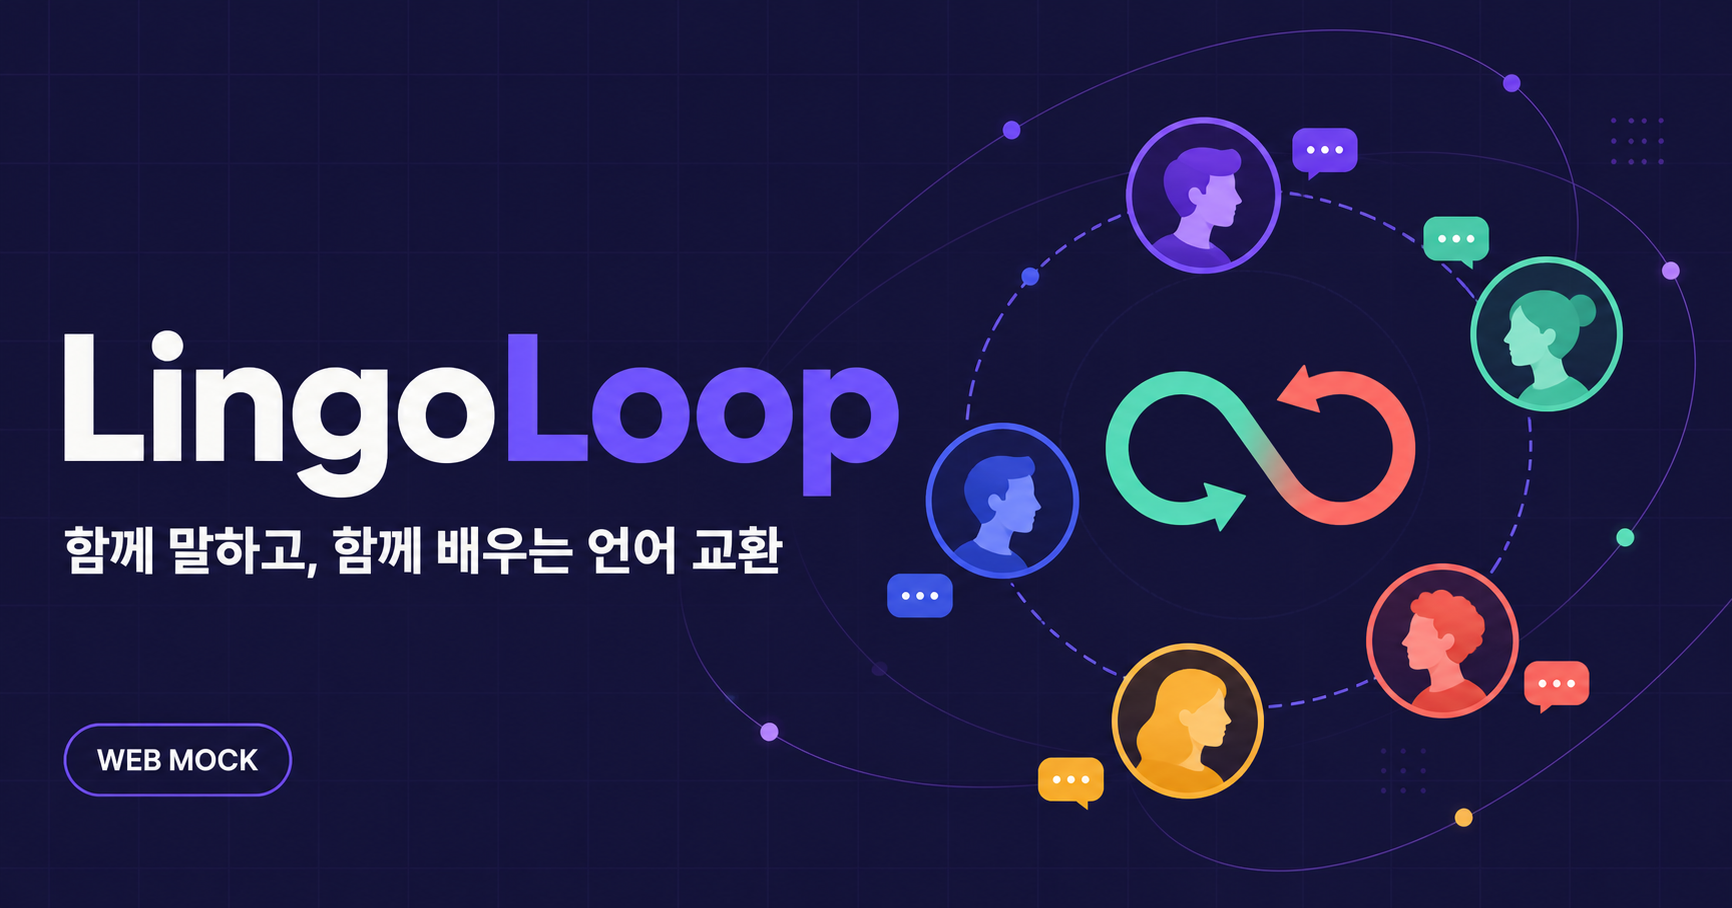
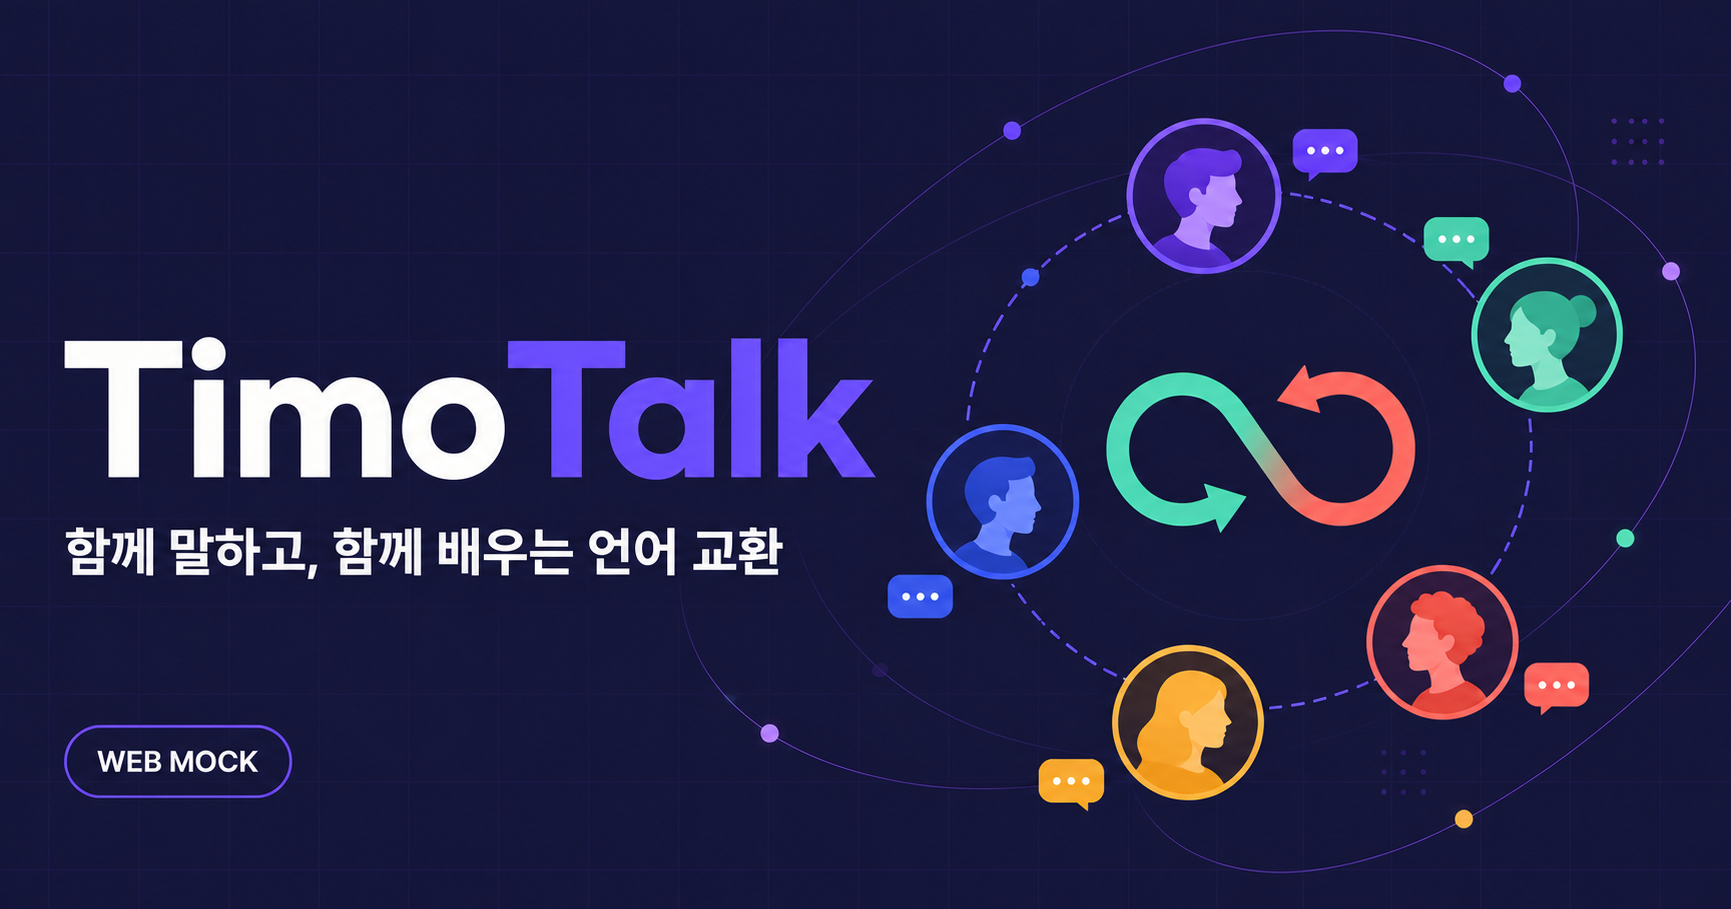
Rename product to TimoTalk

diff --git a/app/lib/i18n/metadata.ts b/app/lib/i18n/metadata.ts
@@ -10,24 +10,24 @@ import type { Locale } from "./keys-locale";
  */
 export const SITE_METADATA: Record<Locale, { title: string; description: string; ogDescription: string; keywords: string[] }> = {
   ko: {
-    title: "LingoLoop — 진짜 사람과 배우는 언어 교환",
+    title: "TimoTalk — 진짜 사람과 배우는 언어 교환",
     description:
       "진짜 사람과 이야기하며 언어를 배워요. 주고받은 대화와 써둔 글은 계정에 남아 폰을 바꿔도 그대로 이어져요.",
     ogDescription: "나와 맞는 사람을 찾고, 커뮤니티에서 연습하고, 대화는 계정에 그대로 남아요.",
-    keywords: ["언어 교환", "언어 파트너", "외국어 회화", "language exchange", "LingoLoop"],
+    keywords: ["언어 교환", "언어 파트너", "외국어 회화", "language exchange", "TimoTalk"],
   },
   en: {
-    title: "LingoLoop — Learn a language with real people",
+    title: "TimoTalk — Learn a language with real people",
     description:
       "Trade languages with real people. Your profile, posts and conversations stay in your account, so nothing is lost when you switch devices.",
     ogDescription: "Find a partner who fits you, practice with the community, and keep every conversation in your account.",
-    keywords: ["language exchange", "language partner", "practice speaking", "LingoLoop"],
+    keywords: ["language exchange", "language partner", "practice speaking", "TimoTalk"],
   },
   ja: {
-    title: "LingoLoop — 実際の人と学ぶ言語交換",
+    title: "TimoTalk — 実際の人と学ぶ言語交換",
     description:
       "実際の人と言語を教え合いましょう。プロフィール・投稿・会話はアカウントに残るので、機種を変えても引き継がれます。",
     ogDescription: "自分に合うパートナーを見つけ、コミュニティで練習し、会話はアカウントにそのまま残ります。",
-    keywords: ["言語交換", "言語パートナー", "会話練習", "language exchange", "LingoLoop"],
+    keywords: ["言語交換", "言語パートナー", "会話練習", "language exchange", "TimoTalk"],
   },
 };

diff --git a/app/components/LingoLoopApp.tsx b/app/components/LingoLoopApp.tsx
@@ -1152,7 +1152,7 @@ function LingoLoopScreens({ me, onSignedOut }: { me: ApiProfile; onSignedOut: ()
       const url = URL.createObjectURL(blob);
       const link = document.createElement("a");
       link.href = url;
-      link.download = `lingoloop-${t("대화 기록")}.json`;
+      link.download = `timotalk-${t("대화 기록")}.json`;
       link.click();
       URL.revokeObjectURL(url);
       showToast(t("대화 기록을 내려받았어요"));
@@ -1550,9 +1550,9 @@ function LingoLoopScreens({ me, onSignedOut }: { me: ApiProfile; onSignedOut: ()
     <div className={`app-root section-${section}`}>
       <a className="skip-link" href="#main-content">{t("본문으로 건너뛰기")}</a>
       <aside className="desktop-sidebar" aria-label={t("주요 메뉴")}>
-        <button className="brand" type="button" onClick={() => goToSection("discover")} aria-label={t("LingoLoop 홈")}>
+        <button className="brand" type="button" onClick={() => goToSection("discover")} aria-label={t("TimoTalk 홈")}>
           <span className="brand-mark"><Languages size={22} strokeWidth={2.4} /></span>
-          <span className="brand-wordmark">Lingo<span>Loop</span></span>
+          <span className="brand-wordmark">Timo<span>Talk</span></span>
         </button>
 
         <nav className="side-nav">

diff --git a/app/components/ProductionLingoLoopApp.tsx b/app/components/ProductionLingoLoopApp.tsx
@@ -382,7 +382,7 @@ function LoadingScreen() {
   return (
     <main className={styles.loading}>
       <span className={styles.brandMark}><Languages size={24} /></span>
-      <strong>LingoLoop</strong>
+      <strong>TimoTalk</strong>
       <p>{t("로그인 상태를 확인하고 있어요.")}</p>
     </main>
   );
@@ -444,7 +444,7 @@ function AuthScreen({ onAuthenticated }: { onAuthenticated: (user: UserProfile) 
           <button type="button" className={mode === "register" ? styles.active : ""} onClick={() => setMode("register")}>{t("회원가입")}</button>
         </div>
         <div>
-          <h2>{mode === "login" ? t("다시 만나서 반가워요") : t("LingoLoop 시작하기")}</h2>
+          <h2>{mode === "login" ? t("다시 만나서 반가워요") : t("TimoTalk 시작하기")}</h2>
           <p>{mode === "login" ? t("하던 대화와 기록을 그대로 가져올게요.") : t("프로필은 가입한 뒤에 천천히 채워도 돼요.")}</p>
         </div>
         <form onSubmit={submit} className={styles.authForm}>

diff --git a/app/layout.tsx b/app/layout.tsx
@@ -22,18 +22,18 @@ export async function generateMetadata(): Promise<Metadata> {
     metadataBase,
     title: {
       default: copy.title,
-      template: "%s | LingoLoop",
+      template: "%s | TimoTalk",
     },
     description: copy.description,
-    applicationName: "LingoLoop",
+    applicationName: "TimoTalk",
     keywords: copy.keywords,
-    authors: [{ name: "LingoLoop" }],
+    authors: [{ name: "TimoTalk" }],
     openGraph: {
       type: "website",
-      siteName: "LingoLoop",
+      siteName: "TimoTalk",
       title: copy.title,
       description: copy.ogDescription,
-      images: [{ url: "/og.png", width: 1732, height: 908, alt: copy.title }],
+      images: [{ url: "/og.png", width: 1731, height: 909, alt: copy.title }],
     },
     twitter: {
       card: "summary_large_image",

diff --git a/app/lib/i18n/en.ts b/app/lib/i18n/en.ts
@@ -921,8 +921,8 @@ export const en: Record<MessageKey, string> = {
   "Google 로그인 · 설정 필요": "Google sign-in · setup required",
   "Google로 계속하기": "Continue with Google",
   "Jisoo 🇰🇷 · 2분 전": "Jisoo 🇰🇷 · 2 min ago",
-  "LingoLoop 시작하기": "Get started with LingoLoop",
-  "LingoLoop 홈": "LingoLoop home",
+  "TimoTalk 시작하기": "Get started with TimoTalk",
+  "TimoTalk 홈": "TimoTalk home",
   "Play 스토어 · 준비 중": "Google Play · coming soon",
   "Play 스토어에서 받기": "Get it on Google Play",
   "STEP {step} / 3": "STEP {step} / 3",

diff --git a/app/lib/i18n/ja.ts b/app/lib/i18n/ja.ts
@@ -921,8 +921,8 @@ export const ja: Record<MessageKey, string> = {
   "Google 로그인 · 설정 필요": "Googleログイン · 設定が必要",
   "Google로 계속하기": "Googleで続ける",
   "Jisoo 🇰🇷 · 2분 전": "Jisoo 🇰🇷 · 2分前",
-  "LingoLoop 시작하기": "LingoLoopを始める",
-  "LingoLoop 홈": "LingoLoop ホーム",
+  "TimoTalk 시작하기": "TimoTalkを始める",
+  "TimoTalk 홈": "TimoTalk ホーム",
   "Play 스토어 · 준비 중": "Google Play · 準備中",
   "Play 스토어에서 받기": "Google Play で入手",
   "STEP {step} / 3": "STEP {step} / 3",

diff --git a/app/components/SignIn.tsx b/app/components/SignIn.tsx
@@ -105,7 +105,7 @@ export function SignIn({ onSignedIn }: { onSignedIn: (user: ApiProfile) => void 
           </button>
         </div>
 
-        <h2>{mode === "login" ? t("다시 만나서 반가워요") : t("LingoLoop 시작하기")}</h2>
+        <h2>{mode === "login" ? t("다시 만나서 반가워요") : t("TimoTalk 시작하기")}</h2>
         <p className="signin-lead">
           {mode === "login" ? t("하던 대화와 기록을 그대로 가져올게요.") : t("프로필은 가입한 뒤에 천천히 채워도 돼요.")}
         </p>

diff --git a/mobile/src/screens/SignInScreen.tsx b/mobile/src/screens/SignInScreen.tsx
@@ -48,7 +48,7 @@ export function SignInScreen() {
       behavior={Platform.OS === "ios" ? "padding" : undefined}
     >
       <ScrollView contentContainerStyle={s.page} keyboardShouldPersistTaps="handled">
-        <Text style={[s.brand, { color: c.ink }]}>LingoLoop</Text>
+        <Text style={[s.brand, { color: c.ink }]}>TimoTalk</Text>
         <Text style={[s.lede, { color: c.muted }]}>{t("진짜 사람과 이야기하며 언어를 배워요.")}</Text>
 
         <Text style={[s.label, { color: c.ink }]}>{t("이메일")}</Text>

diff --git a/app/lib/i18n/keys.ts b/app/lib/i18n/keys.ts
@@ -918,11 +918,11 @@ export const MESSAGE_KEYS = [
   "Google 로그인 · 설정 필요",
   "Google로 계속하기",
   "Jisoo 🇰🇷 · 2분 전",
-  "LingoLoop 시작하기",
-  "LingoLoop 홈",
   "Play 스토어 · 준비 중",
   "Play 스토어에서 받기",
   "STEP {step} / 3",
+  "TimoTalk 시작하기",
+  "TimoTalk 홈",
 ] as const;
 
 export type MessageKey = (typeof MESSAGE_KEYS)[number];

diff --git a/mobile/App.tsx b/mobile/App.tsx
@@ -1,5 +1,5 @@
 /**
- * LingoLoop 앱 진입점.
+ * TimoTalk 앱 진입점.
  *
  * 웹은 데스크톱 전용이 됐고(설치 안내 화면), 폰은 이 앱이 맡습니다.
  * 서버는 웹과 같은 것을 그대로 씁니다 — 백엔드는 한 줄도 고치지 않았습니다.

diff --git a/README.md b/README.md
@@ -1,9 +1,9 @@
-# LingoLoop
+# TimoTalk
 
-LingoLoop는 언어 교환 파트너를 찾고, 커뮤니티 글과 1:1 대화를 이어가는 반응형 웹 서비스입니다. PC와 모바일이 같은 API를 사용하며, 현재 운영 경로는 **Google Cloud Identity Platform + Firestore에 실제 계정과 데이터를 저장하는 구조**입니다.
+TimoTalk은 언어 교환 파트너를 찾고, 커뮤니티 글과 1:1 대화를 이어가는 반응형 웹 서비스입니다. PC와 모바일이 같은 API를 사용하며, 현재 운영 경로는 **Google Cloud Identity Platform + Firestore에 실제 계정과 데이터를 저장하는 구조**입니다.
 
 > [!IMPORTANT]
-> LingoLoop는 HelloTalk과 제휴·후원·승인 관계가 없는 독립 서비스입니다. HelloTalk의 상표, 로고, 문구, 소스 코드나 사용자 데이터를 사용하지 않습니다.
+> TimoTalk은 HelloTalk과 제휴·후원·승인 관계가 없는 독립 서비스입니다. HelloTalk의 상표, 로고, 문구, 소스 코드나 사용자 데이터를 사용하지 않습니다.
 
 > [!NOTE]
 > 이 저장소는 더 이상 메모리 fixture를 운영 데이터처럼 보여주는 mock 런타임을 사용하지 않습니다. 다만 아래의 “아직 연결하지 않은 기능”까지 완성된 것은 아닙니다.
@@ -135,7 +135,7 @@ aiUsage/{uid}/days/{yyyy-mm-dd}
 - 상태를 바꾸는 요청은 허용된 `APP_ORIGIN`을 검사하며 JSON 본문은 64KB로 제한합니다.
 - API 키와 공유 비밀은 이미지나 Git에 넣지 않고 Secret Manager에서 런타임에 주입합니다.
 - Gemini 인증 키는 API 런타임 서비스 계정에 결속되고 Vertex AI API로 제한하며, Secret Manager에서 API 서비스에만 주입합니다.
-- LingoLoop는 AI 요청·응답을 별도 컬렉션에 저장하지 않고 일일 사용 횟수만 기록합니다. 사용자가 보낸 메시지는 기존 대화 보존 정책에 따라 Firestore에 저장되며, Gemini 측 데이터 처리는 선택한 유료 API 약관을 따릅니다.
+- TimoTalk은 AI 요청·응답을 별도 컬렉션에 저장하지 않고 일일 사용 횟수만 기록합니다. 사용자가 보낸 메시지는 기존 대화 보존 정책에 따라 Firestore에 저장되며, Gemini 측 데이터 처리는 선택한 유료 API 약관을 따릅니다.
 - Cloud Run API 서비스 계정에는 필요한 최소 Firestore·Identity 권한만 부여해야 합니다.
 
 공유 비밀은 브라우저 사용자를 인증하는 수단이 아닙니다. 사용자 권한 검사는 반드시 검증된 세션 쿠키와 리소스 소유권으로 수행합니다.
@@ -383,4 +383,4 @@ mock-api/                 # 레거시 목업 참고 코드(운영 미사용)
 
 ## 브랜드·라이선스 안내
 
-상용 공개 전 저장소 라이선스와 LingoLoop 상표 사용 가능성을 별도로 확인해야 합니다. HelloTalk은 해당 권리자의 상표입니다.
+상용 공개 전 저장소 라이선스와 TimoTalk 상표 사용 가능성을 별도로 확인해야 합니다. HelloTalk은 해당 권리자의 상표입니다.

diff --git a/docs/hellotalk-issues.md b/docs/hellotalk-issues.md
@@ -1,6 +1,6 @@
 # HelloTalk 문제점
 
-> LingoLoop 제품 결정을 위한 경쟁 서비스 조사 · 2026-08-12
+> TimoTalk 제품 결정을 위한 경쟁 서비스 조사 · 2026-08-12
 
 **수집:** Apple App Store 미국·일본·한국 최신순 리뷰 각 50건 (2026-04~08) + 공식 FAQ
 **미수집:** Google Play (JS 렌더링으로 접근 불가)
